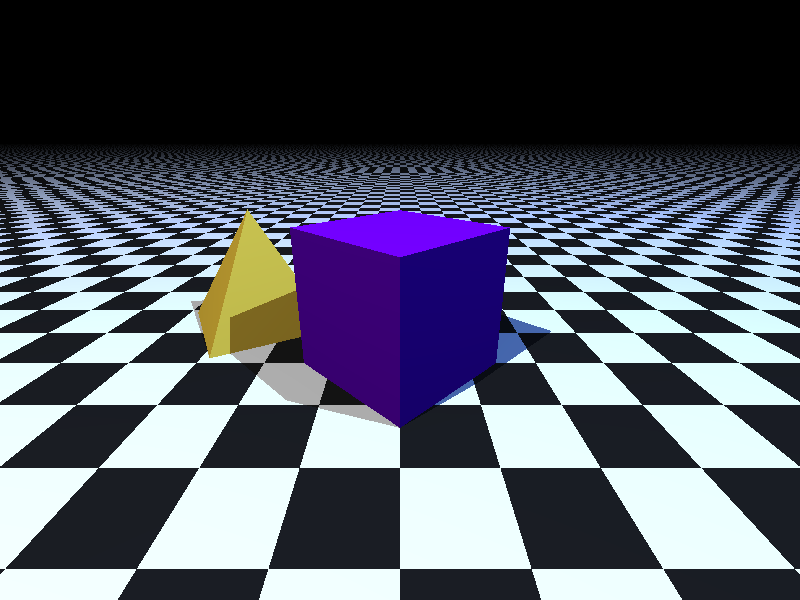
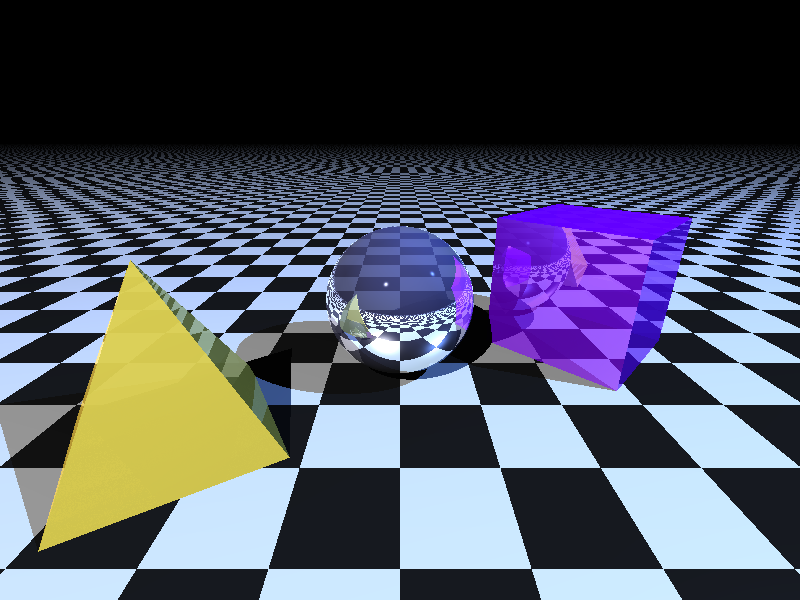
Reflexão e Refração

diff --git a/renderer.py b/renderer.py
@@ -6,141 +6,148 @@ from image import Image
 from scene import Scene
 from math import floor, pow
 
-
-# Função auxiliar para manipular cores (somar e multiplicar)
 def add_colors(c1, c2):
     return (c1[0] + c2[0], c1[1] + c2[1], c1[2] + c2[2])
 
 def multiply_color_by_scalar(c, s):
     return (c[0] * s, c[1] * s, c[2] * s)
 
-def multiply_colors(c1, c2):
-    # Normaliza as cores de [0, 255] para [0, 1] para a multiplicação
-    norm_c1 = (c1[0]/255, c1[1]/255, c1[2]/255)
-    norm_c2 = (c2[0]/255, c2[1]/255, c2[2]/255)
-    # Multiplica e retorna para a escala [0, 255]
-    return (norm_c1[0]*norm_c2[0]*255, norm_c1[1]*norm_c2[1]*255, norm_c1[2]*norm_c2[2]*255)
+def multiply_colors_componentwise(c1, c2):
+    """Multiplica as componentes de duas cores (escala 0-255)."""
+    # Normaliza para [0,1], multiplica, e retorna para [0,255]
+    r = (c1[0] / 255) * (c2[0] / 255) * 255
+    g = (c1[1] / 255) * (c2[1] / 255) * 255
+    b = (c1[2] / 255) * (c2[2] / 255) * 255
+    return (r, g, b)
 
-"""
-Classe responsável por renderizar a cena
-"""
 class Renderer:
-    def __init__(self, camera: Camera, scene: Scene, background_color: tuple = (0, 0, 0)):
+    def __init__(self, camera: Camera, scene: Scene, max_depth: int = 3, background_color: tuple = (0, 0, 0)):
         self.camera = camera
         self.scene = scene
+        self.max_depth = max_depth
         self.background_color = background_color
         
     def find_closest_intersection(self, ray: Ray) -> Optional[tuple]:
-        """
-        Testa a interseção de um raio com todos os objetos da cena.
-
-        Retorna:
-            Uma tupla (distancia, objeto) da interseção mais próxima, ou None.
-        """
         closest_distance = float('inf')
         closest_object = None
-
         for obj in self.scene.objects:
             distance = obj.intersects(ray)
             if distance is not None and distance < closest_distance:
                 closest_distance = distance
                 closest_object = obj
-        
         if closest_object:
             return (closest_distance, closest_object)
         return None
     
     def shade(self, obj: Object, hit_point, normal, ray: Ray) -> tuple:
-        """
-        Calcula a cor final de um ponto usando o modelo de iluminação de Phong.
-        """
         material = obj.material
 
-        # INÍCIO DA LÓGICA DO XADREZ
-        # Verifica se o material do objeto é do tipo xadrez
+        # Determina a cor difusa base (sólida ou xadrez)
         if material.is_checkerboard:
             check = (floor(hit_point.x) + floor(hit_point.z)) % 2
-            if check == 0:
-                base_diffuse_color = material.diffuse
-            else:
-                base_diffuse_color = (20, 20, 20)  # Cor 2 (ex: preto/cinza escuro)
+            # Usa a cor difusa principal do material para o xadrez
+            base_diffuse_color = material.diffuse if check == 0 else (20, 20, 20)
         else:
-            # Comportamento normal: se não for xadrez, usa a cor sólida do material
             base_diffuse_color = material.diffuse
-        # FIM DA LÓGICA DO XADREZ
-
 
         # Inicia a cor final com a contribuição da luz ambiente
-        final_color = multiply_colors(self.scene.ambient_light, material.ambient)
+        final_color = multiply_colors_componentwise(self.scene.ambient_light, material.ambient)
 
-        # 2. Loop sobre todas as fontes de luz para calcular Difusa e Especular
         for light in self.scene.lights:
             light_dir = (light.position - hit_point).normalize()
-
-            # CÁLCULO DE SOMBRA
-            # Lança um raio de sombra para verificar se o ponto está obstruído da luz
             shadow_ray = Ray(hit_point + normal * obj.shadow_bias, light_dir)
             shadow_hit = self.find_closest_intersection(shadow_ray)
-            
-            # Se o raio de sombra atingir qualquer objeto, o ponto está na sombra
-            # em relação a ESTA fonte de luz, então pulamos para a próxima luz.
             if shadow_hit is not None:
                 continue
-            # FIM DO CÁLCULO DE SOMBRA
 
-            # 3. Componente Difusa
-            # Mede o quão de frente a superfície está para a luz
+            # Componente Difusa
             diffuse_intensity = max(0, normal.dot_product(light_dir))
-            diffuse_contribution = multiply_colors(light.intensity, base_diffuse_color)
+            diffuse_contribution = multiply_colors_componentwise(light.intensity, base_diffuse_color)
             diffuse_color = multiply_color_by_scalar(diffuse_contribution, diffuse_intensity)
             final_color = add_colors(final_color, diffuse_color)
 
-            # 4. Componente Especular
-            # Mede o quão alinhado o reflexo da luz está com a visão da câmera
+            # Componente Especular
             view_dir = (ray.origin - hit_point).normalize()
             reflection_dir = (-light_dir).reflect(normal)
             specular_intensity = max(0, view_dir.dot_product(reflection_dir))
             
             if specular_intensity > 0:
                 specular_power = pow(specular_intensity, material.shininess)
-                specular_contribution = multiply_colors(light.intensity, material.specular)
-                # A cor do brilho especular é branca (ou a cor da luz)
+                # Usa a multiplicação por componentes aqui também
+                specular_contribution = multiply_colors_componentwise(light.intensity, material.specular)
                 specular_color = multiply_color_by_scalar(specular_contribution, specular_power)
                 final_color = add_colors(final_color, specular_color)
 
-        # Garante que os valores de cor não ultrapassem 255
-        final_color = (min(255, final_color[0]), min(255, final_color[1]), min(255, final_color[2]))
-
         return final_color
     
-    def render(self) -> Image:
-        """
-        Renderiza a cena inteira e retorna um objeto Image.
-        """
-        # 1. Cria o objeto de imagem que será preenchido
-        final_image = Image(self.camera.screen_width, self.camera.screen_height)
+    def trace(self, ray: 'Ray', depth: int) -> tuple:
+        hit = self.find_closest_intersection(ray)
+        
+        if hit is None:
+            return self.background_color
 
+        distance, obj_hit = hit
+        material = obj_hit.material
+        hit_point = ray.point_at(distance)
+        local_hit_point = obj_hit.inverse_transform * hit_point
+        local_normal = obj_hit.get_normal_at(local_hit_point)
+        world_normal = (obj_hit.inverse_transform_transpose * local_normal).normalize()
+        
+        if material.emission_color:
+            return material.emission_color
+        
+        local_color = self.shade(obj_hit, hit_point, world_normal, ray)
+        
+        if depth <= 0:
+            return local_color
+            
+        reflected_color = (0, 0, 0)
+        if sum(material.reflection_color) > 0:
+            reflection_dir = ray.direction.reflect(world_normal)
+            reflection_ray = Ray(hit_point + world_normal * obj_hit.shadow_bias, reflection_dir)
+            color_from_reflection = self.trace(reflection_ray, depth - 1)
+            reflected_color = multiply_colors_componentwise(color_from_reflection, material.reflection_color)
+
+        refracted_color = (0, 0, 0)
+        # Verifica se o material é transparente
+        if sum(material.transparency_color) > 0:
+            ior_air = 1.0
+            cosi = ray.direction.dot_product(world_normal)
+            
+            if cosi < 0:
+                # Raio está entrando no objeto (Ar -> Material)
+                etai, etat = ior_air, material.ior
+                incident_normal = world_normal
+            else:
+                # Raio está saindo do objeto (Material -> Ar)
+                etai, etat = material.ior, ior_air
+                incident_normal = -world_normal
+
+            ior_ratio = etai / etat
+
+            # Calcula a direção do raio refratado
+            refraction_dir = ray.direction.refract(incident_normal, ior_ratio)
+
+            # Se houver refração (sem reflexão interna total)
+            if refraction_dir is not None:
+                # O raio de refração começa ligeiramente dentro do objeto
+                refraction_ray = Ray(hit_point - world_normal * obj_hit.shadow_bias, refraction_dir)
+                color_from_refraction = self.trace(refraction_ray, depth - 1)
+                refracted_color = multiply_colors_componentwise(color_from_refraction, material.transparency_color)
+
+        # Combina a cor local com as cores refletida e refratada
+        final_color = add_colors(add_colors(local_color, reflected_color), refracted_color)
+        return (min(255, final_color[0]), min(255, final_color[1]), min(255, final_color[2]))
+    
+    def render(self) -> 'Image':
+        final_image = Image(self.camera.screen_width, self.camera.screen_height)
         for y in range(self.camera.screen_height):
+            if y > 0 and y % 20 == 0:
+                print(f"Renderizando... {int((y / self.camera.screen_height) * 100)}%")
             for x in range(self.camera.screen_width):
                 ray = self.camera.generate_ray_for_pixel(x, y)
-                hit = self.find_closest_intersection(ray)
-                
-                color = self.background_color
-                if hit:
-                    distance, obj_hit = hit
-                    hit_point = ray.point_at(distance)
-                    local_hit_point = obj_hit.inverse_transform * hit_point
-                    local_normal = obj_hit.get_normal_at(local_hit_point)
-                    material = obj_hit.material
-
-                    world_normal = (obj_hit.inverse_transform_transpose * local_normal).normalize()
-                    # Se atingiu algo, calcula a cor com base na luz e sombra
-                    color = self.shade(obj_hit, hit_point, world_normal, ray)
-
-                                    
-                # 2. Define o pixel diretamente no objeto de imagem
+                color = self.trace(ray, self.max_depth)
                 final_image.set_pixel(x, y, color)
         
-        # 3. Retorna o objeto de imagem completo
         print("Renderização concluída!")
         return final_image

diff --git a/main.py b/main.py
@@ -16,7 +16,6 @@ def main():
     # A cena é um objeto da classe Scene, que contém a lista de objetos e luzes.
     cena = Scene(ambient_light=(30, 30, 30))
 
-    # CONFIGURAÇÃO DA CÂMERA
     largura = 800
     altura = 600
     minha_camera = Camera(
@@ -27,44 +26,42 @@ def main():
         fov_degrees=75.0
     )
 
-    meu_renderer = Renderer(camera=minha_camera, scene=cena)
+    meu_renderer = Renderer(camera=minha_camera, scene=cena, max_depth=3)
 
     print("Renderizador configurado. Iniciando renderização...")
 
 
     # DEFINIÇÃO DOS MATERIAIS
-    mat_chao_xadrez = Material(diffuse=(200, 200, 200), specular=(10, 10, 10) ,is_checkerboard=True)
-    mat_cubo = Material(diffuse=(102, 0, 204), specular=(255, 255, 255), shininess=256) # Material roxo
-    mat_piramide = Material(diffuse=(212, 175, 55), specular=(255, 255, 255), shininess=512) # Material dourado
-    # mat_esfera_vermelha = Material(color=(255, 0, 0), ambient=0.2, diffuse=0.9, specular=0.9, shininess=256, reflection=0.3)
-    # mat_esfera_azul = Material(color=(0, 0, 255), ambient=0.2, diffuse=0.6, specular=0.9, shininess=256, reflection=0.5, transparency=0.3, ior=1.5)
-    # mat_malha_verde = Material(color=(0, 255, 0), ambient=0.2, diffuse=0.8, specular=0.5, shininess=128)
-    parede_amarela = Material(diffuse=(255, 255, 51), specular=(10, 10, 10), shininess=64, is_checkerboard=False)
+    mat_chao_xadrez = Material(diffuse=(200, 200, 200), is_checkerboard=True)
+    mat_cubo = Material(diffuse=(102, 0, 204), specular=(255, 255, 255), reflection_color=(100, 100, 100), transparency_color=(60, 60, 60), shininess=256) # Material roxo
+    mat_piramide = Material(diffuse=(212, 175, 55), specular=(255, 255, 255), reflection_color=(100, 100, 100), transparency_color=(60, 60, 60), shininess=512) # Material dourado
+    mat_esfera_vermelha = Material(diffuse=(255, 0, 0), specular=(255, 255, 255), reflection_color=(200, 200, 200), shininess=256)
+    mat_esfera_azul = Material(diffuse=(0, 0, 255), specular=(255, 255, 255), shininess=256)
+    #parede_amarela = Material(diffuse=(255, 255, 51), specular=(10, 10, 10), shininess=64, is_checkerboard=False)
     #cena.add(Plane(point=Point(5, 0, 0), normal=Vector(-0.1, 0, 0), material=parede_amarela))
 
+    # Esfera espelhada
+    mat_espelho = Material(diffuse=(50, 50, 80), # Um espelho real tem cor difusa escura
+                           specular=(255, 255, 255),
+                           shininess=1000,
+                           reflection_color=(230, 230, 230),
+                           transparency_color=(60, 60, 60),)
+
     
-    cena.add_light(Light(Point(10, 20, -10), intensity=(255, 255, 255))) # Luz branca
-    cena.add_light(Light(Point(-10, 15, -5), intensity=(100, 150, 255))) # Luz azulada
+    cena.add_light(Light(Point(10, 20, -20), intensity=(255, 255, 255))) # Luz branca
+    cena.add_light(Light(Point(-15, 15, -5), intensity=(100, 150, 255))) # Luz azulada
     cena.add(Plane(point=Point(0, -1, 0), normal=Vector(0, 1, 0), material=mat_chao_xadrez)) # Adiciona um plano (chão)
 
 
-    # transform_esfera1 = Matrix4.translation(-1.5, 0, 1) * Matrix4.scaling(2.0, 2.0, 2.0)
-    # esfera1 = Sphere(material=mat_esfera_vermelha, transform=transform_esfera1)
+    cena.add(Sphere(material=mat_espelho))
+
+    transform_esfera1 = Matrix4.translation(-1.5, 0, 2)
+    esfera1 = Sphere(material=mat_esfera_vermelha, transform=transform_esfera1)
     #cena.add(esfera1)
 
-    # transform_esfera2 = Matrix4.translation(1.5, 0, 2) * Matrix4.scaling(1.0, 0.5, 1.0)
-    # esfera2 = Sphere(material=mat_esfera_azul, transform=transform_esfera2)
+    transform_esfera2 = Matrix4.translation(3, 0, 0)
+    esfera2 = Sphere(material=mat_esfera_azul, transform=transform_esfera2)
     #cena.add(esfera2)
-
-
-    # Adiciona uma malha (um tetraedro)
-    # vertices_tetra = [Point(0, 1, 0), Point(1, -1, -1), Point(-1, -1, -1), Point(0, -1, 1)]
-    # faces_tetra = [(0, 1, 2), (0, 3, 1), (0, 2, 3), (1, 2, 3)]
-
-    # transformacao_malha = Matrix4.rotation_y(45)
-    # vertices_transformados = [transformacao_malha * v for v in vertices_tetra]
-    # malha = Mesh(vertices_transformados, faces_tetra, mat_malha_verde)
-    #cena.add_mesh(malha) # O método add_mesh adiciona todos os triângulos da malha na cena
 
 
     # CARREGANDO UM MODELO .OBJ
@@ -72,7 +69,7 @@ def main():
     try:
         # Cubo
         verts, faces = load_obj_file("modelos/cubo2.obj")
-        transformacao_cubo = Matrix4.rotation_y(45)
+        transformacao_cubo = Matrix4.rotation_y(45) * Matrix4.translation(-2.5, 0, -1.5)
         vertices_transformados = [transformacao_cubo * v for v in verts]
         cubo = Mesh(vertices=vertices_transformados, faces=faces, material=mat_cubo)
         cena.add_mesh(cubo)
@@ -80,7 +77,7 @@ def main():
 
         # Piramide
         verts, faces = load_obj_file("modelos/piramide.obj")
-        transform_piramide = Matrix4.translation(2.5, 0, 1.5) * Matrix4.rotation_y(30)
+        transform_piramide = Matrix4.translation(2.5, 0, -1.5) * Matrix4.rotation_y(30)
         vertices_transformados = [transform_piramide * v for v in verts]
         piramide = Mesh(vertices=vertices_transformados, faces=faces, material=mat_piramide)
         cena.add_mesh(piramide)

diff --git a/material.py b/material.py
@@ -5,7 +5,6 @@ class Material:
     Representa as propriedades fisicas de um material para renderizacao.
 
     Atributos:
-        color (tuple): Cor do material como uma tupla (R, G, B).
         ambient (RGB): Coeficiente ambiental, que afeta a luminosidade ambiente percebida.
         diffuse (RGB): Coeficiente lambertiano do material, que afeta a difusao da luz.
         specular (RGB): Coeficiente especular do material, que afeta o brilho especular.
@@ -17,23 +16,23 @@ class Material:
     """
 
     def __init__(self,
-                #color,
                 ambient: Optional[tuple] = None,
                 diffuse: tuple = (255, 255, 255),
                 specular: tuple = (255, 255, 255),
                 shininess: float = 32.0,
-                reflection: float = 0.0,
-                transparency: float = 0.0,
+                reflection_color: tuple = (0, 0, 0),
+                transparency_color: tuple = (0, 0, 0),
                 ior: float = 1.0,
-                is_checkerboard: bool = False):
+                is_checkerboard: bool = False,
+                emission_color: 'Optional[tuple]' = None):
         
-        #self.color = color
         self.diffuse = diffuse
         # Se ambient não for fornecido, ele será uma fração de diffuse.
         self.ambient = ambient if ambient is not None else (diffuse[0] * 0.1, diffuse[1] * 0.1, diffuse[2] * 0.1)
         self.specular = specular 
         self.shininess = shininess   
-        self.reflection = reflection
-        self.transparency = transparency
+        self.reflection_color = reflection_color
+        self.transparency_color = transparency_color
         self.ior = ior
         self.is_checkerboard = is_checkerboard
+        self.emission_color = emission_color

diff --git a/vector.py b/vector.py
@@ -47,12 +47,14 @@ class Vector:
         return sqrt(self.x ** 2 + self.y ** 2 + self.z ** 2)
 
     def normalize(self):
-        """ Retorna o vetor unitario. """
+        """Retorna o vetor unitário."""
         magnitude = self.magnitude()
-        if magnitude != 0:
-            return Vector(self.x / magnitude, self.y / magnitude, self.z / magnitude)
-        else:
-            return Vector()
+        if magnitude > 0: # Checa se a magnitude é maior que zero
+            return self / magnitude
+        
+        # Se a magnitude for 0, retorna um vetor seguro em vez de (0,0,0)
+        # para evitar a divisão por zero nos cálculos de interseção.
+        return Vector(0, 0, 1) 
 
     def dot_product(self, other):
         """ Retorna o produto escalar entre dois vetores. """

diff --git a/scene.py b/scene.py
@@ -1,10 +1,10 @@
 from typing import List
 from point import Point
 from object import Object
-from mesh import Mesh # Importamos Mesh para o método 'add_mesh'
+from mesh import Mesh
 
 class Light:
-    """Representa uma fonte de luz pontual com posição e intensidade (cor)."""
+    """Representa uma fonte de luz pontual com posição e intensidade."""
     def __init__(self, position: Point, intensity: tuple = (255, 255, 255)):
         self.position = position
         self.intensity = intensity

diff --git a/obj_loader.py b/obj_loader.py
@@ -1,5 +1,3 @@
-# Em um novo arquivo: obj_loader.py
-
 from typing import List, Tuple
 from point import Point
 
